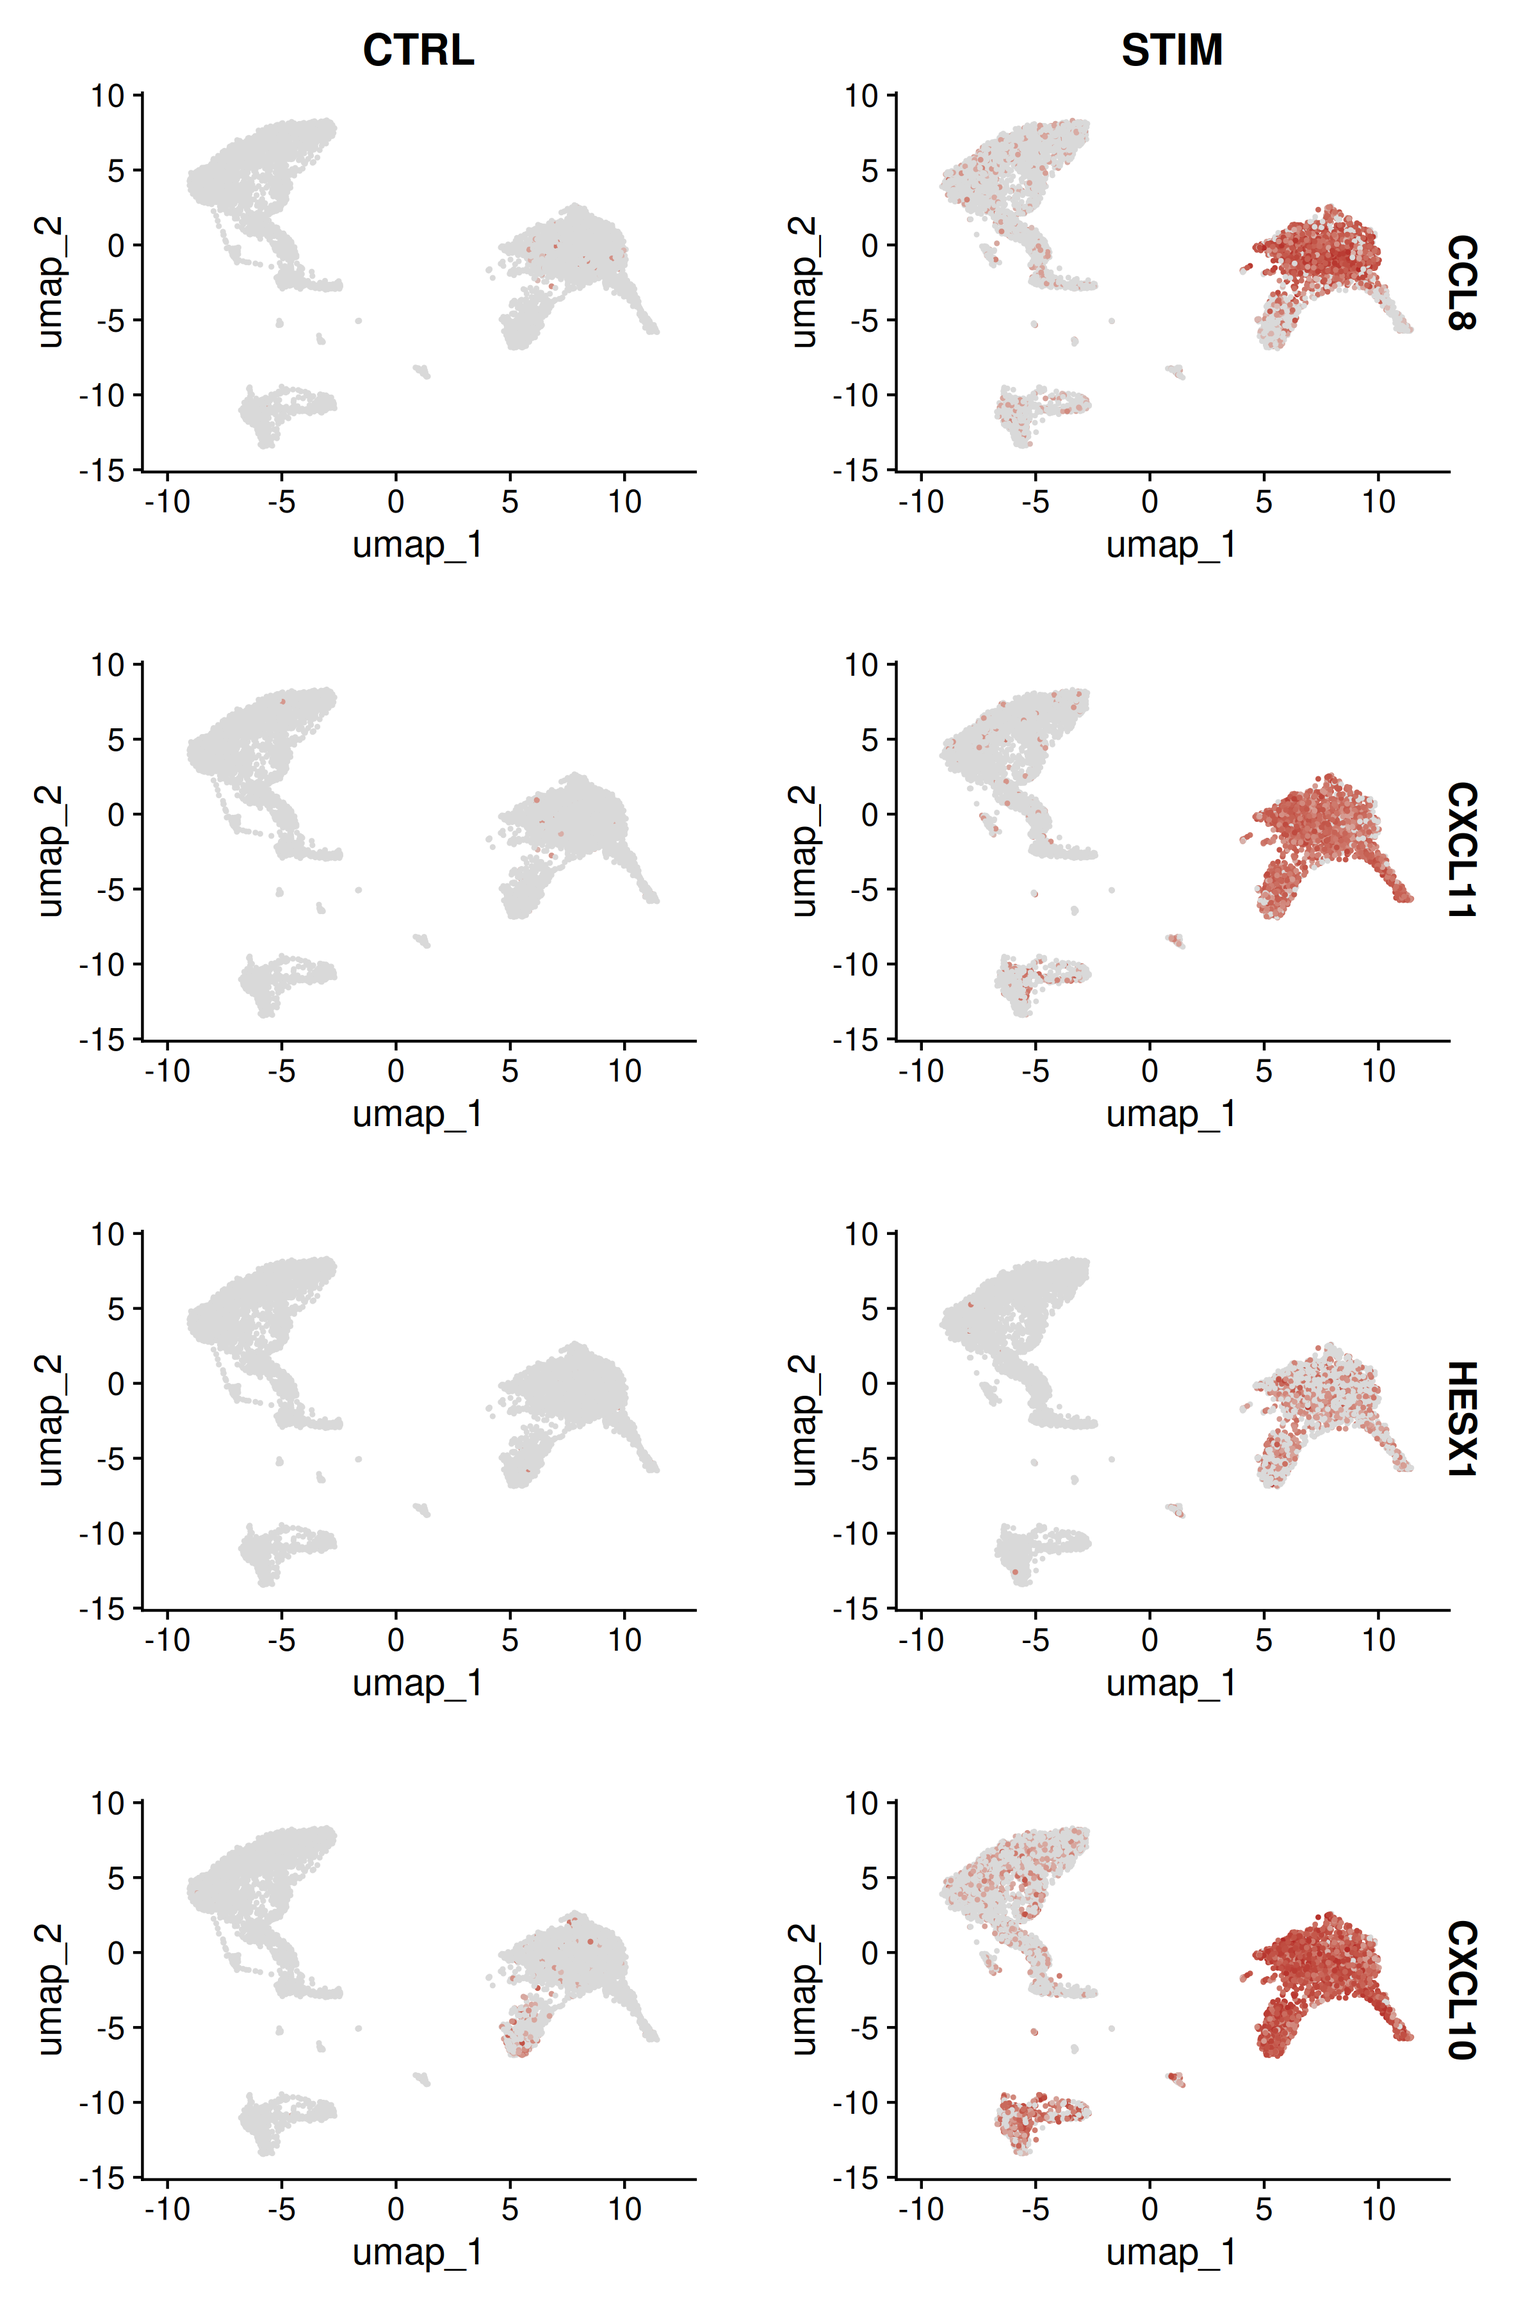
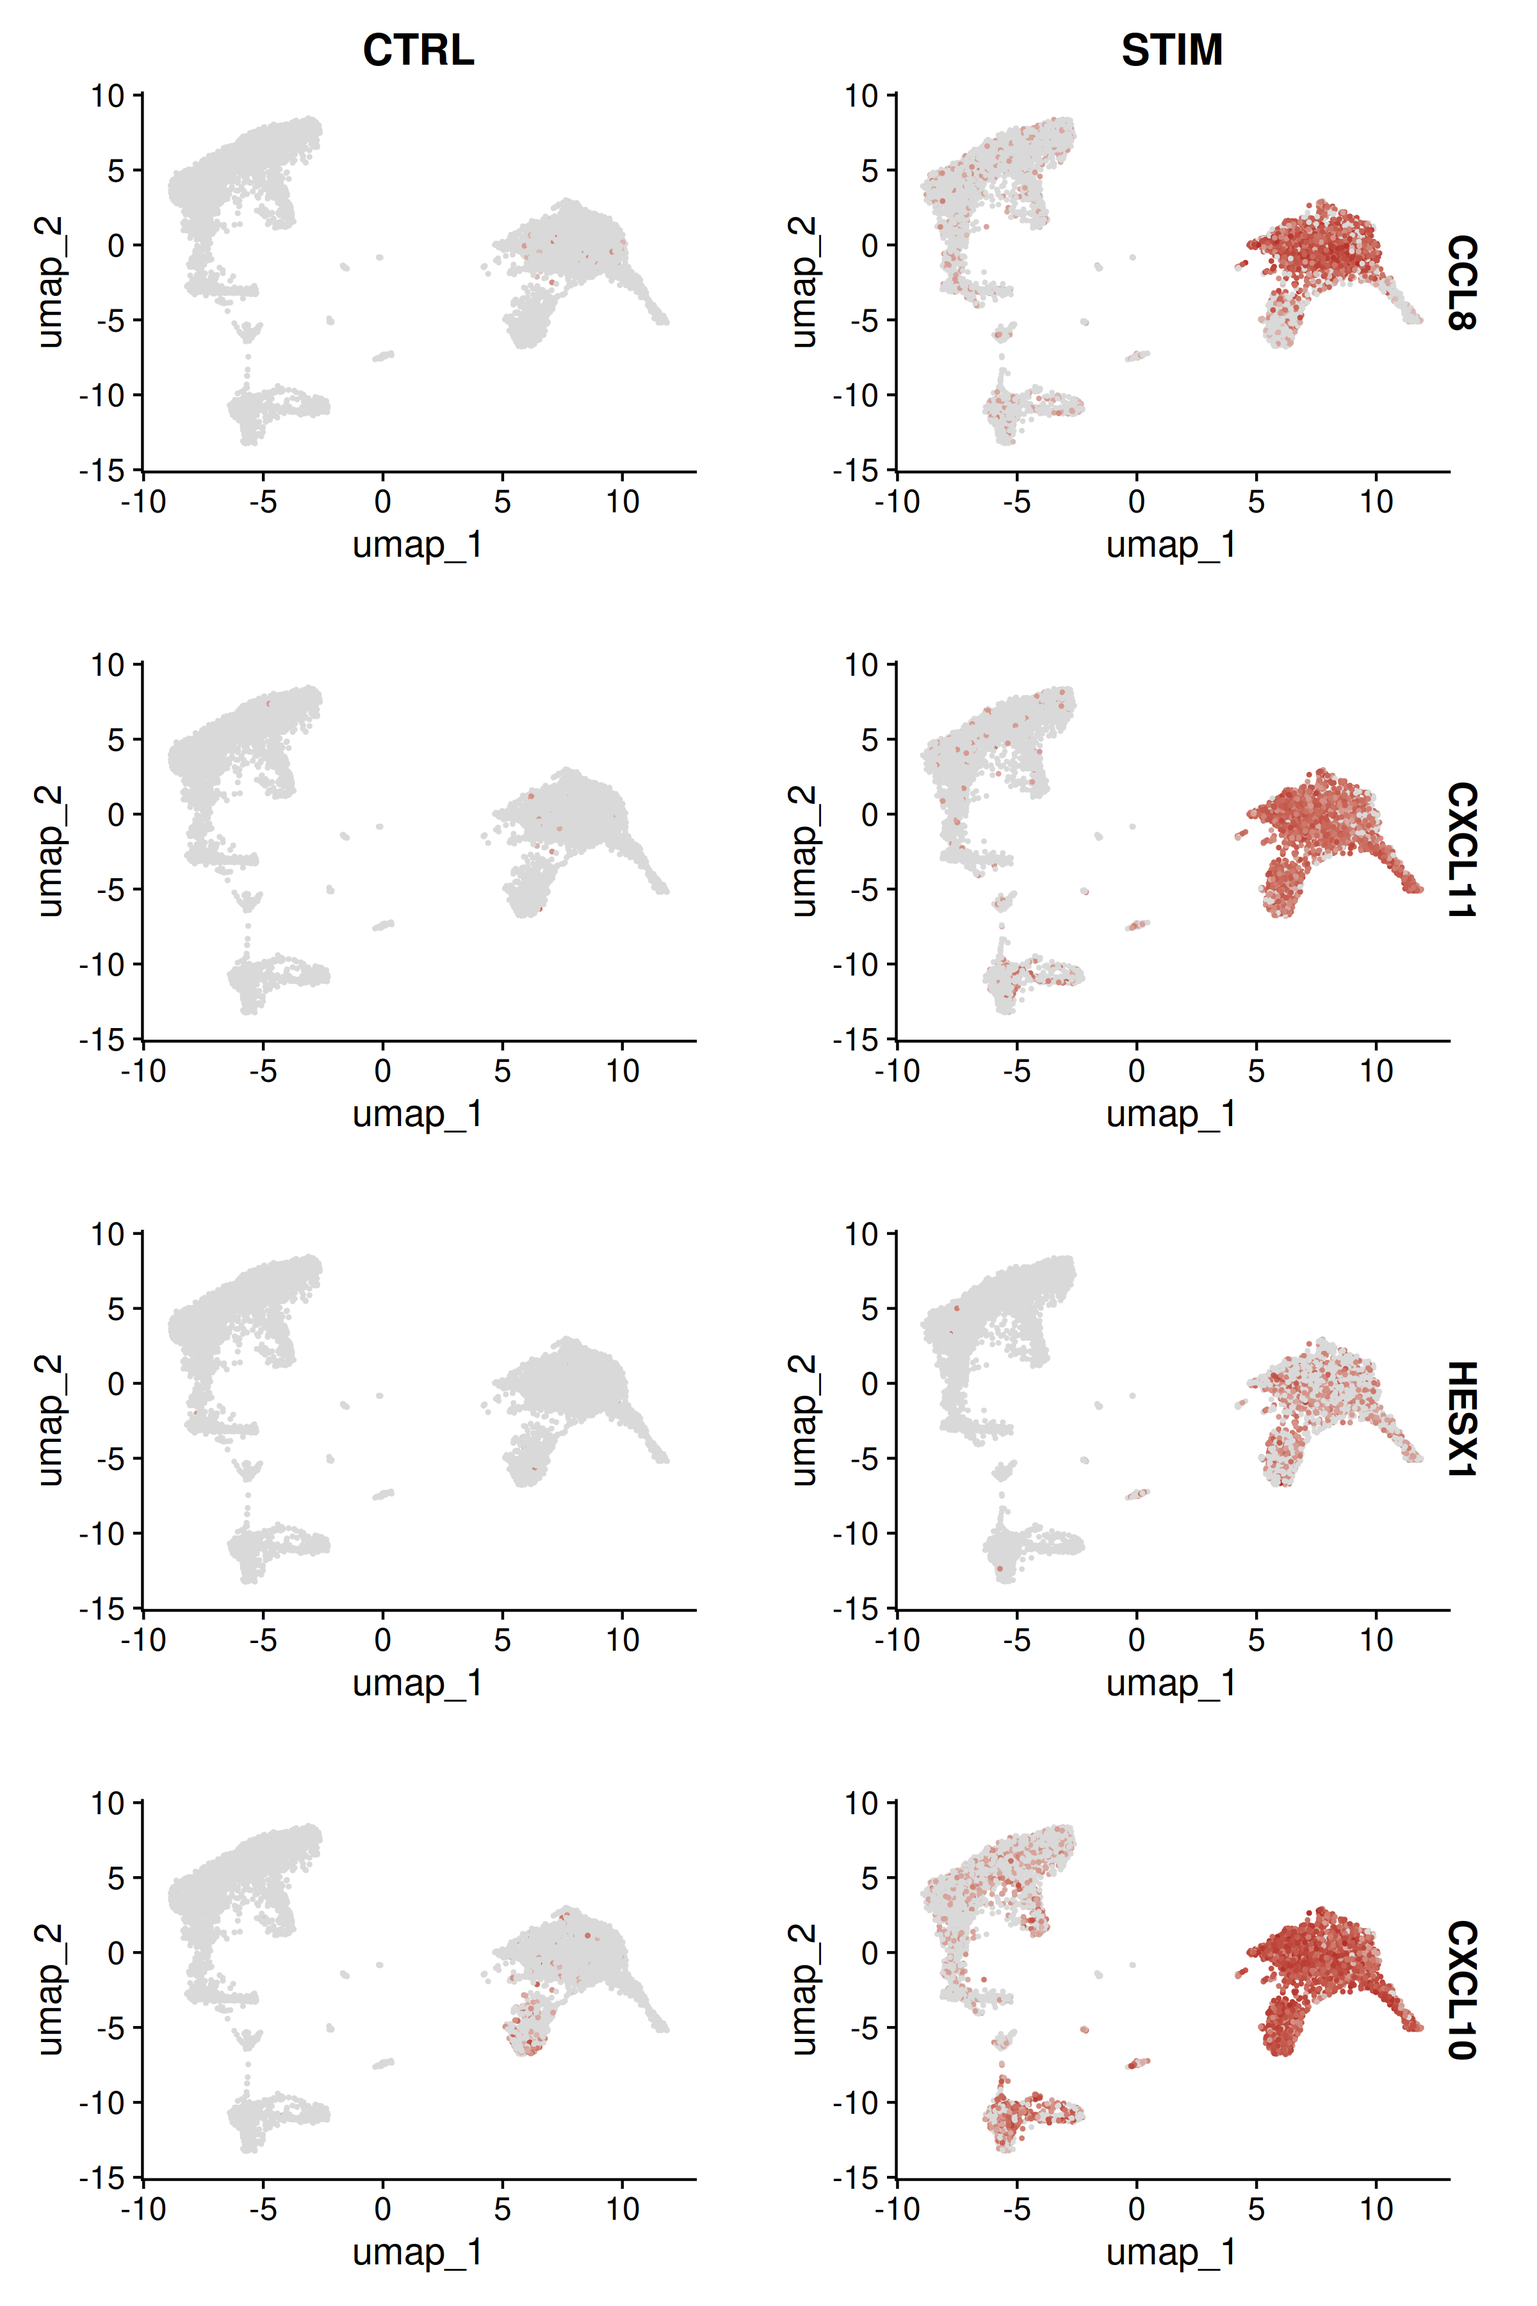
Seed the cold pass from the episodes' RDS reads and freeze the staged manifest
c08 failed because kit_cold_seed gave episode 8 only ifnb_annotated.rds,
while its export chunks also read pbmc_annotated.rds. build_kit.py now
derives the cold seed from readRDS minus saveRDS (generated/cold_seed.tsv)
and stops if a seed file is not a staged rds/ file.

staged_manifest.tsv now holds the sizes and md5 measured on the verified
Depot copy. ep7_challenge2.png is replaced with the Negishi redraw, whose
UMAP layout differs from the local pre-screen's.

Claude-Session: https://claude.ai/code/session_01MNpZ1xrgpBRwdAaY8XQU5X

diff --git a/negishi-run/build_kit.py b/negishi-run/build_kit.py
@@ -378,6 +378,17 @@ for ep in R_EPS:
 for ep in ("03", "04", "05", "06", "08"):
     step("c" + ep, "rjob", [], "%s cold start from the staged copies (%s)" % (ep, ORDER[int(ep) - 1]))
 
+# What a cold start copies from $STAGED/rds/: every RDS the episode reads and does not save itself
+# (episode 8 needs pbmc_annotated.rds as well as ifnb_annotated.rds). Each must be a staged rds/ file.
+STAGED_RDS = {l.split("\t")[0][4:] for l in (KIT / "staged_manifest.tsv").read_text().splitlines()
+              if l.startswith("rds/") and "\tfile\t" in l}
+COLD_SEED = []
+for ep in R_EPS:
+    for f in sorted(RDS_IO[ep][0] - RDS_IO[ep][1]):
+        if f not in STAGED_RDS:
+            die("%s reads %s, which staged_manifest.tsv does not list under rds/ (cold start)" % (rel(ep), f))
+        COLD_SEED.append((ep, f))
+
 # ---------------------------------------------------------------- writers
 OUT = {}
 
@@ -511,6 +522,7 @@ def build():
     put("r_packages.tsv", tsv(pt))
     put("r_packages.txt", "\n".join(r[0] for r in pt[1:]))
     put("ep3_matrix_path.txt", EP3_MATRIX)
+    put("cold_seed.tsv", tsv([("episode", "rds")] + COLD_SEED))
     fm = [("episode", "file", "title", "teaching", "exercises")]
     for name in ORDER:
         e = EPS[KEY[name]]

diff --git a/maintenance/log/updates.md b/maintenance/log/updates.md
@@ -145,6 +145,13 @@ Run `/scratch/negishi/aseethar/scrna-kit/runs/2026-10-21`, episodes as of commit
 - `[should-fix]` warnings learners see, now confirmed on Negishi (round 1 list): glmGamPoi "not installed when version(s) same as or greater" (episode 4 `install-glmgampoi`), the RunUMAP default-method notice (episodes 5 and 7), "Assay RNA changing from Assay to Assay5" (episode 7 `load-ifnb`), "5.5% of input gene IDs are fail to map" (episode 8 `convert-ids`, `challenge2`). New: episode 6 `heatmap` (`:218`) "The following features were omitted as they were not found in the scale.data layer ... ASGR2, SLC46A2, ENSG00000288970, ADTRP, EDAR, MTARC1, ENSG00000289381" (top markers outside the 2,000 variable genes; one sentence in the episode would explain it).
 - `[nice]` kit (fixed 2026-10-22): `SUMMARY.md` reported the three episode 2 learner jobs as "not run" although sacct shows them COMPLETED; their status now comes from sacct (test added).
 
+#### Round 3, Negishi cold pass and staged manifest, 2026-10-23 (collected 2026-10-23 08:42)
+
+- All 56 anchors pass in both passes. The cold pass ran from the published `rds/` copies (`c03` to `c06` and `c08`, jobs 44580363 to 44580367). `c03` to `c06` PASS, and their anchors match the continuous pass value for value, including the 10 episode 6 marker anchors.
+- `[should-fix]` kit (fixed 2026-10-23): `c08` FAILED (job 44580367). Its anchors all pass (759, 1,464, GO and KEGG terms), but `export-csv` stopped with `cannot open compressed file '.../cold/08/scratch/scrna_workshop/pbmc_annotated.rds'`, and `export-dense` and `convert-anndata` failed after it with `object 'pbmc' not found`. The cause is the kit, not the episode. `kit_cold_seed` (`negishi-run/lib.sh`) hardcoded one RDS per episode and gave `c08` only `ifnb_annotated.rds`, while episode 8 (since patch 03) and its patch 05 callout also read `pbmc_annotated.rds`. Fix: `build_kit.py` derives the cold seed from each episode's `readRDS()` minus `saveRDS()` names, writes `generated/cold_seed.tsv`, and stops if a seed file is not a staged `rds/` file. `kit_cold_seed` copies that list. A mutation test was added. To confirm, rerun `submit_all.sh --only cold --from c08 --force`.
+- `redraw_figures.sh --run 2026-10-21` on Negishi: the three `ep6_*` figures are byte-identical to the committed files. `ep7_challenge2.png` is not, because its UMAP layout differs: the local pre-screen's `ifnb_annotated.rds` embeds the same clusters in a rotated layout. The genes, the row order and the CTRL versus STIM pattern are the same, and the alt text and FIGURE_DESCRIPTIONS describe no layout. The committed file is replaced with the Negishi redraw (`r07` 44579914), which is what learners will see.
+- Staged manifest frozen: `make_staged_manifest.py` on the verified copy (`check_staged.sh` full, 0 problems) is committed as `negishi-run/staged_manifest.tsv`, with sizes and md5 for all 21 files. `README.txt` md5 matches `negishi-run/staged-top/README.txt` (2,782 bytes), so the republished README is the kit copy.
+
 ## Runtime record
 
 Append per-step wall time and MaxRSS from testing (Cell Ranger count, STAR index, STARsolo), RStudio session memory peaks per episode, tool versions and `sessionInfo()`. Compare against the times claimed in the text and the schedule.
@@ -192,7 +199,7 @@ Non-blocking improvements worth doing before the next delivery cycle (the tentat
 - `[should-fix]` episode 2 runtimes (`raw-data-processing.Rmd:289,503,629-630`), measured on 64 cores: Cell Ranger 324 min (5.4 h, MaxRSS 75 GiB, CPU efficiency 6 percent), STAR index 17 min (34 GiB), STARsolo 43 min (50 GiB). The episode says about 7 h, about 30 min and about 45 min. Fix: round to "about 5.5 hours", "about 20 minutes", "about 45 minutes" (patch after the round 3 numbers, as patch 04 planned). Applied 2026-10-22 with `updates-patches/16-ep2-runtimes.patch` (commit 8a30db7): about 5.5 h / 75 GB, about 20 min / 35 GB, about 45 min / 50 GB; "roughly 7x faster"; the mapping-speed row now reads 945.4M reads/hr and compares with Cell Ranger's whole-run rate (about 120M reads/hr) instead of "~15x".
 - `[should-fix]` episode 2 (`raw-data-processing.Rmd`, after the Cell Ranger submit block, `:285`): nothing tells learners what to do when a Cell Ranger job dies (wall time, node failure, outage) and the resubmission stops at once because `cellranger_output/pbmc10k/` exists. Fix: a short callout. Remove `pbmc10k/_lock` to resume the interrupted run, or move `pbmc10k/` aside to start over. Needs Cell Ranger 10.0.0's exact error text, which this run's logs did not keep. Applied 2026-10-22 with `updates-patches/17-ep2-cellranger-resume.patch`: callout "If your Cell Ranger job dies" (read the .out/.err; resume by removing `pbmc10k/_lock`, or `mv` the directory aside; episode 3 does not wait). The kit extracts the two new bash blocks but does not run them. Cell Ranger 10.0.0's exact refusal text is still not recorded.
 - `[should-fix]` episode 8 `go-dotplot` fig.alt (`differential-expression.Rmd:475`): no type I interferon term in the GO top 15 on Negishi either (confirms the round 1 `[check]`). Fix: drop "response to type I interferon ... appearing lower in the list" from the fig.alt, or name a term that is in the list, when `ep8_go_dotplot.png` is regenerated. Applied 2026-10-22 with `updates-patches/18-ep8-go-alt.patch` (commit fa4415f): the fig.alt names the top four terms, then response to type II interferon and regulation of innate immune response. The kit anchor that tested the old claim now tests type II interferon. `ep8_go_dotplot.png` already matches (its image alt names the top three only), so it is not redrawn.
-- `[should-fix]` output blocks with numbers the console never prints (avg_log2FC and p-value drift; counts within tolerance): episode 7 `challenge1` (`:518`), `challenge2` (`:585`), `conserved` (`:379`), `de-condition` (`:433`); episode 8 `kegg` (`:523`), `pseudo-count` (`:291`, 1,455 vs 1,464), `wilcox-count` (`:137`). Fix: regenerate these blocks from `records/console/r07` and `r08` after the `r08` rerun. Applied 2026-10-22 with `updates-patches/19-ep7-ep8-output-blocks.patch`. The seven blocks now hold the Negishi console output verbatim (`r07` 44579914, `r08` 44579915; console width 80, so wide tables wrap differently). The prose follows: Wilcoxon 759 and pseudobulk 1,464 (also the summary list and `anchors.tsv`); CCL8 dropped from the episode 8 chemokine list (OAS1 is 10th now); the KEGG paragraph names the actual top five; episode 7 challenge 1 CD14 Mono 50.3/49.7; the challenge 2 table and chemokine paragraph use the new ranking (HESX1 third). Episode 7 gains one sentence after `de-condition`: fold changes and significant-gene counts vary slightly between Seurat versions, the leading ISGs do not. `ep7_challenge2.png` (row order) was redrawn with `redraw_figures.sh` (new `before` column runs `de-condition` first), from the local pre-screen's `handoff/r07/ifnb_annotated.rds`. That is the same SeuratData input and versions, and its `mono.de` table is identical to Negishi's. Rerun `redraw_figures.sh` on Negishi to confirm byte-identity.
+- `[should-fix]` output blocks with numbers the console never prints (avg_log2FC and p-value drift; counts within tolerance): episode 7 `challenge1` (`:518`), `challenge2` (`:585`), `conserved` (`:379`), `de-condition` (`:433`); episode 8 `kegg` (`:523`), `pseudo-count` (`:291`, 1,455 vs 1,464), `wilcox-count` (`:137`). Fix: regenerate these blocks from `records/console/r07` and `r08` after the `r08` rerun. Applied 2026-10-22 with `updates-patches/19-ep7-ep8-output-blocks.patch`. The seven blocks now hold the Negishi console output verbatim (`r07` 44579914, `r08` 44579915; console width 80, so wide tables wrap differently). The prose follows: Wilcoxon 759 and pseudobulk 1,464 (also the summary list and `anchors.tsv`); CCL8 dropped from the episode 8 chemokine list (OAS1 is 10th now); the KEGG paragraph names the actual top five; episode 7 challenge 1 CD14 Mono 50.3/49.7; the challenge 2 table and chemokine paragraph use the new ranking (HESX1 third). Episode 7 gains one sentence after `de-condition`: fold changes and significant-gene counts vary slightly between Seurat versions, the leading ISGs do not. `ep7_challenge2.png` (row order) was redrawn with `redraw_figures.sh` (new `before` column runs `de-condition` first), from the local pre-screen's `handoff/r07/ifnb_annotated.rds`. That is the same SeuratData input and versions, and its `mono.de` table is identical to Negishi's. 2026-10-23: the Negishi redraw has a different UMAP layout and replaces it (see round 3).
 - `[check]` (provisional) Episode 8 GO terms: locally the top 15 BP terms are virus terms plus "response to type II interferon", and no type I interferon term. The `go-dotplot` fig.alt (`differential-expression.Rmd:475`) says "response to type I interferon ... appearing lower in the list". Compare with the Negishi run before regenerating `ep8_go_dotplot.png`. Confirmed on Negishi and resolved by patch 18.
 
 ### 2026-10-21: patch 11 applied to episode 8 (branch prep-2026-10-29); confirmed on Negishi 2026-10-22 (`r08` job 44578592)

diff --git a/negishi-run/docs/ADAPTATIONS.md b/negishi-run/docs/ADAPTATIONS.md
@@ -55,9 +55,9 @@ Challenge, solution and callout chunks run in order. A failure in one of them is
 - **Continuous** (`r03` to `r08`): one learner copy, the RDS chain as written. Episode 3 reads the matrix its `set-paths` names; `build_kit.py` writes that path to `generated/ep3_matrix_path.txt`. With patch 01 applied (2026-10-16), that path is the staged copy in `scrna_workshop/filtered_feature_bc_matrix/`, so `r03` starts at once. If the episode pointed at `cellranger_output/...` again, the build would make `r03` wait for `02-cellranger`. `r07` starts from SeuratData and has no dependency.
 - **Cold** (`c03` to `c06`, `c08`): each episode in its own new directory, so the parallel jobs never share files. Each is seeded with what a learner who skipped the previous episode needs, copied from `$STAGED`:
   - `c03`: the staged `filtered_feature_bc_matrix/`, copied to the path in `generated/ep3_matrix_path.txt`, where episode 3 looks;
-  - `c04`, `c05`, `c06`, `c08`: the staged `rds/<input>.rds`, copied into `scrna_workshop/` where `readRDS(paste0(work_dir, ...))` looks.
+  - `c04`, `c05`, `c06`, `c08`: every staged `rds/<name>.rds` the episode reads and does not save itself, copied into `scrna_workshop/` where `readRDS(paste0(work_dir, ...))` looks. `build_kit.py` derives the list from the episode's `readRDS()` and `saveRDS()` calls and writes it to `generated/cold_seed.tsv` (`c08` gets `ifnb_annotated.rds` and `pbmc_annotated.rds`); the build stops if a file is not listed under `rds/` in `staged_manifest.tsv`.
 
-  The episodes do not tell learners to do this copy (logged; patch 05 adds the callouts). There is no `c07`: episode 7 starts from SeuratData in both passes.
+  The episodes' cold-start callouts (patch 05, applied 2026-10-22) tell learners to make the same copy. There is no `c07`: episode 7 starts from SeuratData in both passes.
 
 ### Kit-only additions (never change learner objects, never print to the learner console)
 
